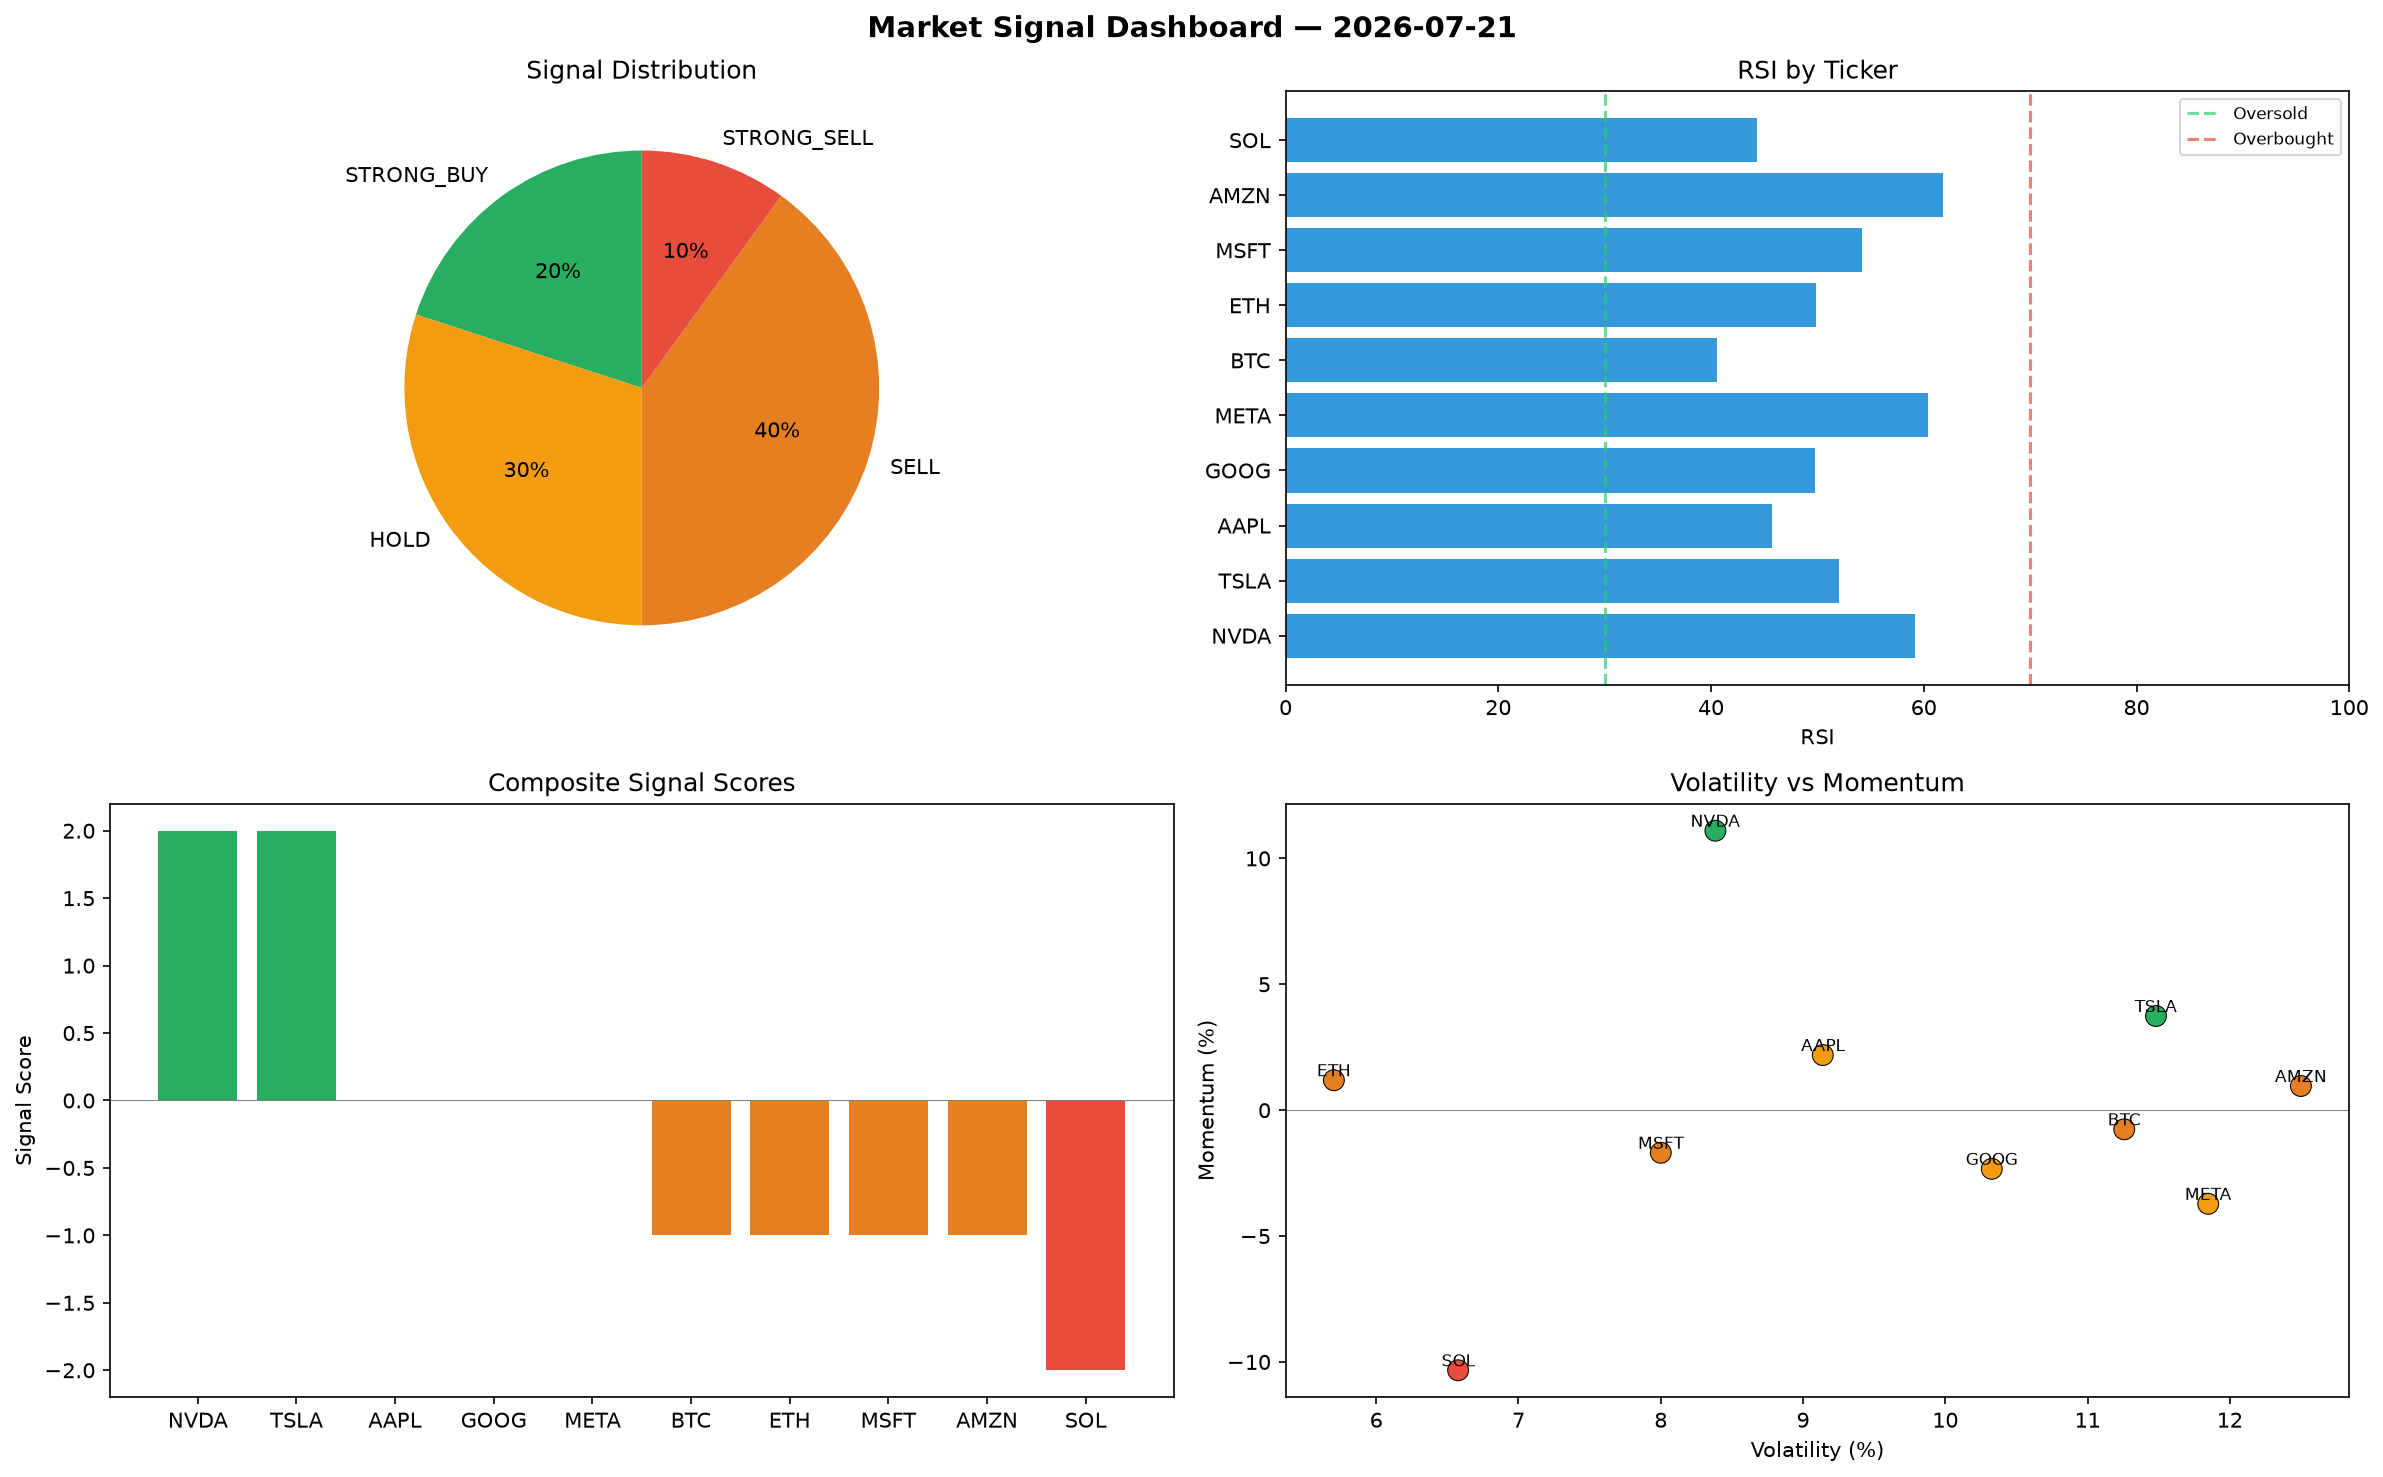
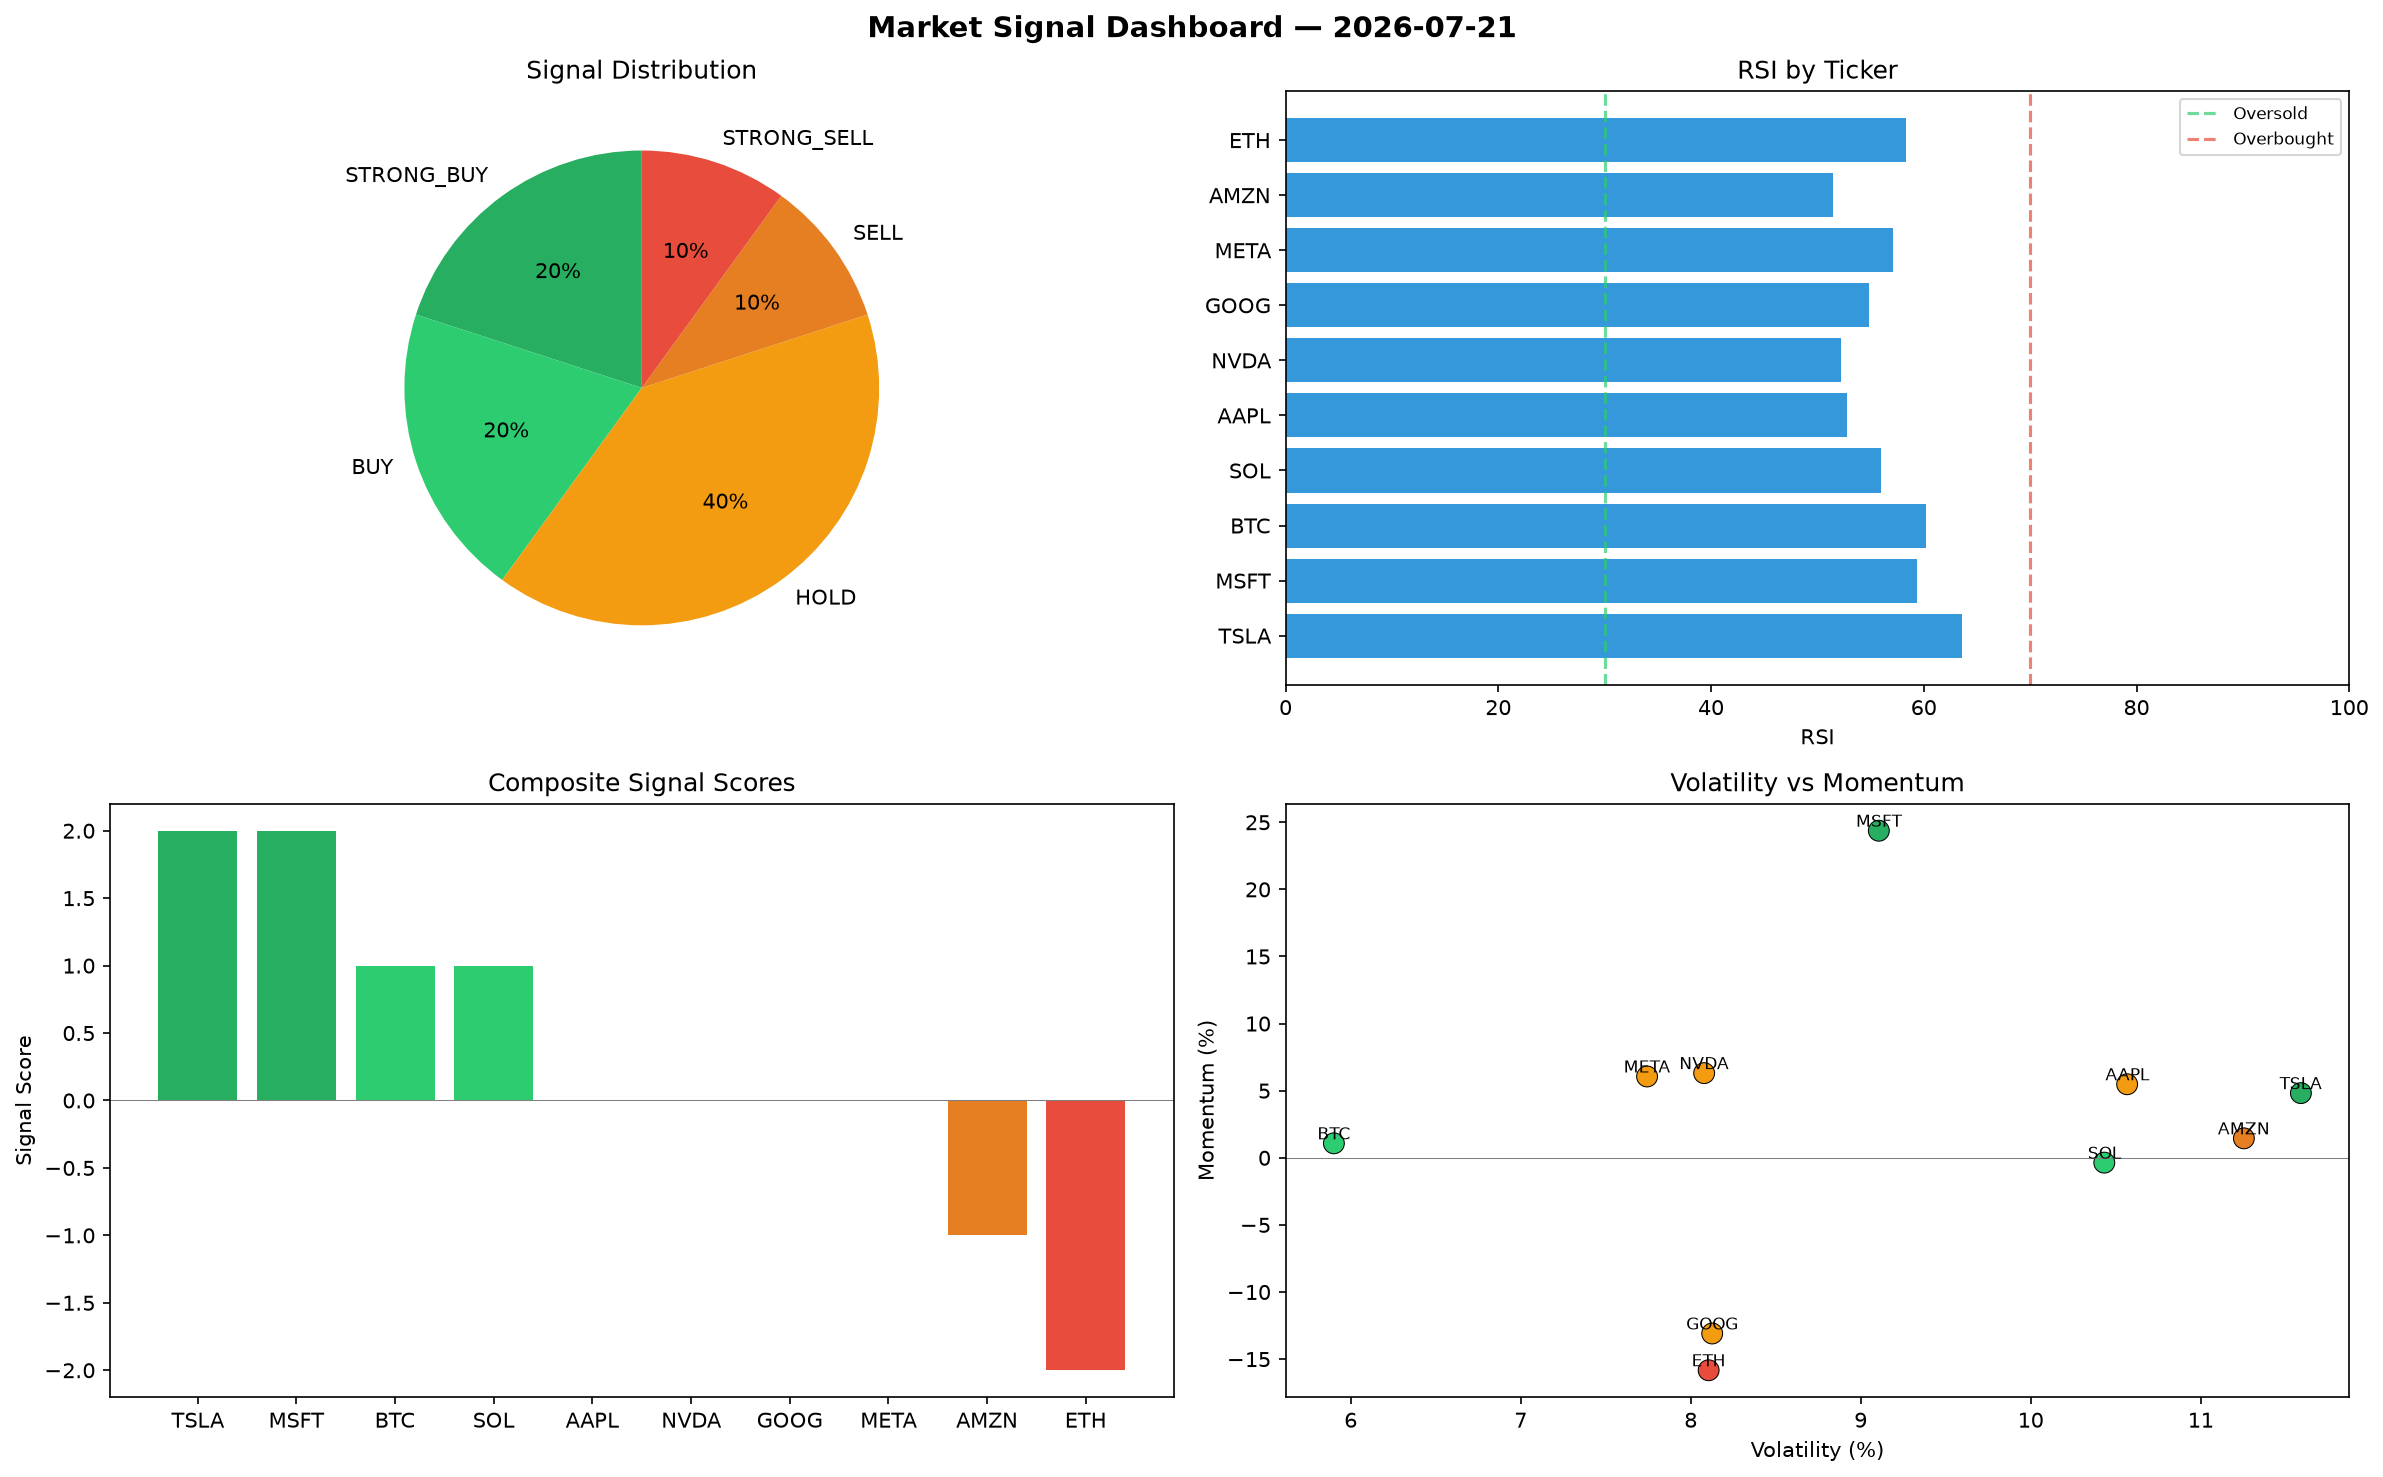
automated-bots: market signals 2026-07-21T10:36

diff --git a/logs/2026-07-21.md b/logs/2026-07-21.md
@@ -1,6 +1,6 @@
 # Market Signal Report — 2026-07-21
 
-**Run ID:** `424e006039` | **Buy:** 2 | **Sell:** 5 | **Hold:** 3
+**Run ID:** `c79083d7fc` | **Buy:** 4 | **Sell:** 2 | **Hold:** 4
 
 ![Dashboard](2026-07-21_dashboard.png)
 
@@ -8,28 +8,28 @@
 
 | Ticker | Price | Signal | Score | RSI | Momentum | Confidence |
 |--------|-------|--------|-------|-----|----------|------------|
-| NVDA | $45.95 | **STRONG_BUY** | 2 | 59.15 | 0.111 | 0.5 |
-| TSLA | $2974.6 | **STRONG_BUY** | 2 | 52.06 | 0.0374 | 0.5 |
-| AAPL | $2933.52 | **HOLD** | 0 | 45.69 | 0.0219 | 0.0 |
-| GOOG | $944.59 | **HOLD** | 0 | 49.77 | -0.0233 | 0.0 |
-| META | $2363.88 | **HOLD** | 0 | 60.39 | -0.0372 | 0.0 |
-| BTC | $2013.05 | **SELL** | -1 | 40.52 | -0.0076 | 0.25 |
-| ETH | $2978.44 | **SELL** | -1 | 49.88 | 0.0119 | 0.25 |
-| MSFT | $3334.48 | **SELL** | -1 | 54.2 | -0.0169 | 0.25 |
-| AMZN | $4163.08 | **SELL** | -1 | 61.8 | 0.0096 | 0.25 |
-| SOL | $2080.87 | **STRONG_SELL** | -2 | 44.31 | -0.1033 | 0.5 |
+| TSLA | $953.59 | **STRONG_BUY** | 2 | 63.55 | 0.0482 | 0.5 |
+| MSFT | $1310.77 | **STRONG_BUY** | 2 | 59.4 | 0.2437 | 0.5 |
+| BTC | $4645.92 | **BUY** | 1 | 60.21 | 0.0108 | 0.25 |
+| SOL | $2576.96 | **BUY** | 1 | 55.96 | -0.0036 | 0.25 |
+| AAPL | $2794.58 | **HOLD** | 0 | 52.75 | 0.0548 | 0.0 |
+| NVDA | $3952.95 | **HOLD** | 0 | 52.2 | 0.0631 | 0.0 |
+| GOOG | $3662.35 | **HOLD** | 0 | 54.84 | -0.1309 | 0.0 |
+| META | $602.15 | **HOLD** | 0 | 57.1 | 0.0606 | 0.0 |
+| AMZN | $5436.42 | **SELL** | -1 | 51.42 | 0.0145 | 0.25 |
+| ETH | $3791.94 | **STRONG_SELL** | -2 | 58.34 | -0.1583 | 0.5 |
 
 ## Delta vs Yesterday
 
 | Ticker | Today | Yesterday | Price Change | Signal Changed |
 |--------|-------|-----------|-------------|----------------|
-| NVDA | STRONG_BUY | STRONG_BUY | 📉 -98.35% | — |
-| TSLA | STRONG_BUY | BUY | 📈 210.1% | ⚠ YES |
-| AAPL | HOLD | STRONG_BUY | 📈 50.35% | ⚠ YES |
-| GOOG | HOLD | BUY | 📈 5.39% | ⚠ YES |
-| META | HOLD | BUY | 📉 -7.42% | ⚠ YES |
-| BTC | SELL | HOLD | 📈 174.09% | ⚠ YES |
-| ETH | SELL | STRONG_SELL | 📈 3597.63% | ⚠ YES |
-| MSFT | SELL | HOLD | 📈 68.71% | ⚠ YES |
-| AMZN | SELL | HOLD | 📈 248.21% | ⚠ YES |
-| SOL | STRONG_SELL | SELL | 📉 -31.66% | ⚠ YES |
+| TSLA | STRONG_BUY | BUY | 📉 -0.59% | ⚠ YES |
+| MSFT | STRONG_BUY | HOLD | 📉 -33.68% | ⚠ YES |
+| BTC | BUY | HOLD | 📈 532.56% | ⚠ YES |
+| SOL | BUY | SELL | 📉 -15.37% | ⚠ YES |
+| AAPL | HOLD | STRONG_BUY | 📈 43.23% | ⚠ YES |
+| NVDA | HOLD | STRONG_BUY | 📈 41.82% | ⚠ YES |
+| GOOG | HOLD | BUY | 📈 308.6% | ⚠ YES |
+| META | HOLD | BUY | 📉 -76.42% | ⚠ YES |
+| AMZN | SELL | HOLD | 📈 354.72% | ⚠ YES |
+| ETH | STRONG_SELL | STRONG_SELL | 📈 4607.56% | — |
